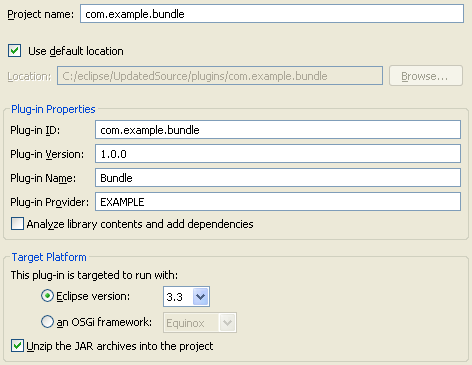
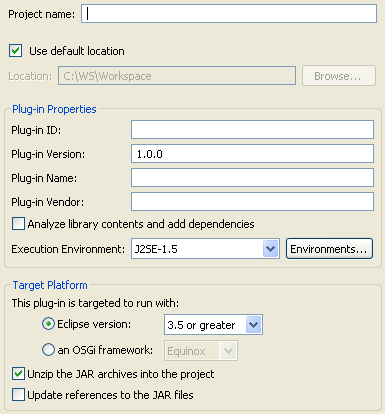
Bug 353358 - Replace screenshots and text for changing Provider to Vendor

Changed region(s): [[0.0, 0.0904, 0.9974, 0.6329], [0.0, 0.663, 0.6857, 0.9945], [0.0, 0.0, 0.9974, 0.0603]]

diff --git a/bundles/org.eclipse.pde.doc.user/guide/tools/project_wizards/plugin_content.htm b/bundles/org.eclipse.pde.doc.user/guide/tools/project_wizards/plugin_content.htm
@@ -2,7 +2,7 @@
 "http://www.w3.org/TR/html4/loose.dtd">
 <html lang="en">
 <head>
-<meta name="copyright" content="Copyright (c) IBM Corporation and others 2006, 2009. This page is made available under license. For full details see the LEGAL in the documentation book that contains this page." >
+<meta name="copyright" content="Copyright (c) IBM Corporation and others 2006, 2012. This page is made available under license. For full details see the LEGAL in the documentation book that contains this page." >
 <meta http-equiv="Content-Type" content="text/html; charset=iso-8859-1">
 <script language="JavaScript" type="text/javascript" src="PLUGINS_ROOT/org.eclipse.help/livehelp.js"></script>
 <title>Plug-in Content</title>
@@ -15,10 +15,10 @@
 <p><img src="../../images/new_wizards/plugin_content.PNG" alt="Plug-in Content" ></p>
 
 <h2>Plug-in Properties </h2>
-<p>A <strong>Plug-in ID</strong> is mandatory and must comply with the   <a href="../../../../org.eclipse.platform.doc.isv/reference/misc/plugin_manifest.html">plugin.dtd</a>. It is recommended - but not mandatory - for the plug-in ID to match the plug-in project name.</p>
-<p>A <strong>Plug-in Version</strong> is mandatory and must be of the form <em>major.minor.micro.qualifier</em> (e.g. 1.3.0).</p>
-<p>A <strong>Plug-in Name</strong> is the translatable presentation name of the plug-in. This field is required. </p>
-<p>A <strong>Plug-in Provider</strong> is the translatable name of the plug-in provider. This field is optional. </p>
+<p>A <strong>ID</strong> is mandatory and must comply with the   <a href="../../../../org.eclipse.platform.doc.isv/reference/misc/plugin_manifest.html">plugin.dtd</a>. It is recommended - but not mandatory - for the plug-in ID to match the plug-in project name.</p>
+<p>A <strong>Version</strong> is mandatory and must be of the form <em>major.minor.micro.qualifier</em> (e.g. 1.3.0).</p>
+<p>A <strong>Name</strong> is the translatable presentation name of the plug-in. This field is required. </p>
+<p>A <strong>Vendor</strong> is the translatable name of the plug-in vendor. This field is optional. </p>
 <p><strong>Execution Environment</strong> refers to the required <a href="http://wiki.eclipse.org/EE">execution environment</a> (symbolic representation of a JRE) of your plug-in. This field is optional but recommended to be set.</p>
 
 <h2>Plug-in Options </h2>

diff --git a/bundles/org.eclipse.pde.doc.user/guide/tools/project_wizards/fragment_content.htm b/bundles/org.eclipse.pde.doc.user/guide/tools/project_wizards/fragment_content.htm
@@ -2,7 +2,7 @@
 "http://www.w3.org/TR/html4/loose.dtd">
 <html lang="en">
 <head>
-<meta name="copyright" content="Copyright (c) IBM Corporation and others 2006, 2009. This page is made available under license. For full details see the LEGAL in the documentation book that contains this page." >
+<meta name="copyright" content="Copyright (c) IBM Corporation and others 2006, 2012. This page is made available under license. For full details see the LEGAL in the documentation book that contains this page." >
 <meta http-equiv="Content-Type" content="text/html; charset=iso-8859-1">
 <script language="JavaScript" type="text/javascript" src="PLUGINS_ROOT/org.eclipse.help/livehelp.js"></script>
 <title>Fragment Content</title>
@@ -15,10 +15,10 @@
 <p><img src="../../images/new_wizards/fragment2.png" alt="Fragment Content" ></p>
 
 <h2>Plug-in Properties </h2>
-<p>A <strong>Fragment ID</strong> is mandatory and must comply with the   <a href="../../../../org.eclipse.platform.doc.isv/reference/misc/plugin_manifest.html">plugin.dtd</a>. It is recommended - but not mandatory - for the fragment ID to match the project name.</p>
-<p>A <strong>Fragment Version</strong> is mandatory and must be of the form <em>major.minor.micro.qualifier</em> (e.g. 1.3.0).</p>
-<p>A <strong>Fragment Name</strong> is the translatable presentation name of the fragment. This field is required. </p>
-<p>A <strong>Fragment Provider</strong> is the translatable name of the fragment provider. This field is optional. </p>
+<p>A <strong>ID</strong> is mandatory and must comply with the   <a href="../../../../org.eclipse.platform.doc.isv/reference/misc/plugin_manifest.html">plugin.dtd</a>. It is recommended - but not mandatory - for the fragment ID to match the project name.</p>
+<p>A <strong>Version</strong> is mandatory and must be of the form <em>major.minor.micro.qualifier</em> (e.g. 1.3.0).</p>
+<p>A <strong>Name</strong> is the translatable presentation name of the fragment. This field is required. </p>
+<p>A <strong>Vendor</strong> is the translatable name of the fragment vendor. This field is optional. </p>
 <p><strong>Execution Environment</strong> refers to the required <a href="http://wiki.eclipse.org/EE">execution environment</a> (symbolic representation of a JRE) of your plug-in. This field is optional but recommended to be set.</p>
 
 <h2>Host Plug-in</h2>

diff --git a/bundles/org.eclipse.pde.doc.user/guide/tools/project_wizards/new_feature_patch.htm b/bundles/org.eclipse.pde.doc.user/guide/tools/project_wizards/new_feature_patch.htm
@@ -2,7 +2,7 @@
 "http://www.w3.org/TR/html4/loose.dtd">
 <html lang="en">
 <head>
-<meta name="copyright" content="Copyright (c) IBM Corporation and others 2006, 2009. This page is made available under license. For full details see the LEGAL in the documentation book that contains this page." >
+<meta name="copyright" content="Copyright (c) IBM Corporation and others 2006, 2012. This page is made available under license. For full details see the LEGAL in the documentation book that contains this page." >
 <meta http-equiv="Content-Type" content="text/html; charset=iso-8859-1">
 <script language="JavaScript" type="text/javascript" src="PLUGINS_ROOT/org.eclipse.help/livehelp.js"></script>
 <title>Feature Patch</title>
@@ -22,8 +22,8 @@
 
 <h3>Feature Patch Properties </h3>
 <p>A feature <strong>Patch ID</strong> is mandatory and must comply with the <a href="../../../../org.eclipse.platform.doc.isv/reference/misc/plugin_manifest.html">plugin.dtd</a>.</p>
-<p>A feature <strong>Patch Name</strong> is the translatable presentation name of the plug-in. This field is required. </p>
-<p>A feature <strong>Patch Provider</strong> is the translatable name of the feature provider. This field is optional. </p>
+<p>A feature <strong>Patch Name</strong> is the translatable presentation name of the feature patch. This field is required. </p>
+<p>A feature <strong>Patch Vendor</strong> is the translatable name of the feature patch. This field is optional. </p>
 <p>An <strong>Install Handler Library</strong> may be optionally associated with a feature patch if the patch needs to do specific or additional setup upon installation. Specifying an install handler library in the wizard results in the generation of a Java project; otherwise, the feature project is a simple project by default.</p>
 
 <h3>Properties of Patched Feature</h3>

diff --git a/bundles/org.eclipse.pde.doc.user/guide/tools/editors/feature_editor/overview.htm b/bundles/org.eclipse.pde.doc.user/guide/tools/editors/feature_editor/overview.htm
@@ -2,7 +2,7 @@
 "http://www.w3.org/TR/html4/loose.dtd">
 <html lang="en">
 <head>
-<meta name="copyright" content="Copyright (c) IBM Corporation and others 2006, 2009. This page is made available under license. For full details see the LEGAL in the documentation book that contains this page." >
+<meta name="copyright" content="Copyright (c) IBM Corporation and others 2006, 2012. This page is made available under license. For full details see the LEGAL in the documentation book that contains this page." >
 <meta http-equiv="Content-Type" content="text/html; charset=iso-8859-1">
 <title>Feature Overview</title>
 <script language="JavaScript" type="text/javascript" src="PLUGINS_ROOT/org.eclipse.help/livehelp.js"></script>
@@ -22,7 +22,7 @@
 <p>An<strong> ID</strong> is mandatory and must comply with the <a href="../../../../../org.eclipse.platform.doc.isv/reference/misc/plugin_manifest.html">specifications</a>.</p>
 <p>A <strong>Version</strong> is mandatory and must be of the form <em>major.minor.</em><em>micro.qualifier</em> (e.g. 1.3.0). </p>
 <p>A <strong>Name</strong> is the translatable presentation name of the feature. This field is required. </p>
-<p>A <strong>Provider</strong> is the translatable name of the feature provider. This field is optional. </p>
+<p>A <strong>Vendor</strong> is the translatable name of the feature vendor. This field is optional. </p>
 <p>A <strong>Branding   Plug-in</strong> stores branding information for primary features. If not explicitly set, Eclipse will assume that the branding plug-in   has the same identifier as the feature.</p>
 <p>The <strong>Update Site URL</strong> denotes a URL that is used by <em>Update Manager</em> when searching for feature updates.</p>
 <p>The <strong>Update Site Name</strong>  is the human-readable label of the referenced update site. </p>

diff --git a/bundles/org.eclipse.pde.doc.user/guide/tools/project_wizards/new_feature_project.htm b/bundles/org.eclipse.pde.doc.user/guide/tools/project_wizards/new_feature_project.htm
@@ -2,7 +2,7 @@
 "http://www.w3.org/TR/html4/loose.dtd">
 <html lang="en">
 <head>
-<meta name="copyright" content="Copyright (c) IBM Corporation and others 2006, 2009. This page is made available under license. For full details see the LEGAL in the documentation book that contains this page." >
+<meta name="copyright" content="Copyright (c) IBM Corporation and others 2006, 2012. This page is made available under license. For full details see the LEGAL in the documentation book that contains this page." >
 <meta http-equiv="Content-Type" content="text/html; charset=iso-8859-1">
 <script language="JavaScript" type="text/javascript" src="PLUGINS_ROOT/org.eclipse.help/livehelp.js"></script>
 <title>Feature Project</title>
@@ -28,7 +28,7 @@
 <p>A <strong>Feature ID</strong> is mandatory and must comply with the <a href="../../../../org.eclipse.platform.doc.isv/reference/misc/plugin_manifest.html">plugin.dtd</a>.</p>
 <p>A <strong>Feature Version</strong> is mandatory and must be of the form <em>major.minor.</em><em>micro.qualifier</em> (e.g. 1.3.0). </p>
 <p>A <strong>Feature Name</strong> is the translatable presentation name of the feature. This field is required. </p>
-<p>A <strong>Feature Provider</strong> is the translatable name of the feature provider. This field is optional. </p>
+<p>A <strong>Feature Vendor</strong> is the translatable name of the feature vendor. This field is optional. </p>
 <p>An <strong>Install Handler Library</strong> may be optionally associated with a feature if the feature needs to do specific or additional setup upon installation. Specifying an install handler library in the wizard results in the generation of a Java project; otherwise, the feature project is a simple project by default.</p>
 
 <h3>Plug-in Selection</h3>

diff --git a/bundles/org.eclipse.pde.doc.user/guide/tools/project_wizards/plugin_from_archives.htm b/bundles/org.eclipse.pde.doc.user/guide/tools/project_wizards/plugin_from_archives.htm
@@ -2,7 +2,7 @@
 "http://www.w3.org/TR/html4/loose.dtd">
 <html lang="en">
 <head>
-<meta name="copyright" content="Copyright (c) IBM Corporation and others 2006, 2009. This page is made available under license. For full details see the LEGAL in the documentation book that contains this page." >
+<meta name="copyright" content="Copyright (c) IBM Corporation and others 2006, 2012. This page is made available under license. For full details see the LEGAL in the documentation book that contains this page." >
 <meta http-equiv="Content-Type" content="text/html; charset=iso-8859-1">
 <script language="JavaScript" type="text/javascript" src="PLUGINS_ROOT/org.eclipse.help/livehelp.js"></script>
 <title>Plug-in From JAR Archives</title>
@@ -34,7 +34,7 @@
 <p>A <strong>Plug-in ID</strong> is mandatory and must comply with the <a href="../../../../org.eclipse.platform.doc.isv/reference/misc/plugin_manifest.html">plugin.dtd</a>. It is recommended - but not mandatory - for the plug-in ID to match the project name.</p>
 <p>A <strong>Plug-in Version</strong> is mandatory and must be of the form <em>major.minor.service</em> (e.g. 1.3.0).</p>
 <p>A <strong>Plug-in Name</strong> is the translatable presentation name of the plug-in. This field is required. </p>
-<p>A <strong>Plug-in Provider</strong> is the translatable name of the plug-in provider. This field is optional. </p>
+<p>A <strong>Plug-in Vendor</strong> is the translatable name of the plug-in vendor. This field is optional. </p>
 <p>You can optionally use PDE to <strong>Analyze library contents and add dependencies</strong>. 
  PDE analyzes the contents of the libraries specified on the
  <strong>Jar Selection</strong> page, looking for dependencies that may be

diff --git a/bundles/org.eclipse.pde.doc.user/guide/tools/editors/feature_editor/information.htm b/bundles/org.eclipse.pde.doc.user/guide/tools/editors/feature_editor/information.htm
@@ -2,7 +2,7 @@
 "http://www.w3.org/TR/html4/loose.dtd">
 <html lang="en">
 <head>
-<meta name="copyright" content="Copyright (c) IBM Corporation and others 2006, 2009. This page is made available under license. For full details see the LEGAL in the documentation book that contains this page." >
+<meta name="copyright" content="Copyright (c) IBM Corporation and others 2006, 2012. This page is made available under license. For full details see the LEGAL in the documentation book that contains this page." >
 <meta http-equiv="Content-Type" content="text/html; charset=iso-8859-1">
 <title>Feature Information</title>
 <script language="JavaScript" type="text/javascript" src="PLUGINS_ROOT/org.eclipse.help/livehelp.js"></script>
@@ -33,7 +33,7 @@
 <h2>Sites to Visit</h2>
 <p><strong>Sites to Visit</strong> specify the name and URL of sites to search for new features. </p>
 <p><img src="../../../images/feature_editor/information_sites.png" alt="Sites To Visit"></p>
-<p>In general, a provider can use <strong>Sites to Visit</strong> to reference its own site(s), or partner site(s) that offer complementary features. </p>
+<p>In general, a vendor can use <strong>Sites to Visit</strong> to reference its own site(s), or partner site(s) that offer complementary features. </p>
 <p>Eclipse uses this data simply as a way to distribute new site URLs to the clients. Sites that belong to   root features (at the top of the hierarchy) typically appear as <strong>Sites to Visit</strong>   in <em>Update Manager</em>. </p>
 
 </body>

diff --git a/bundles/org.eclipse.pde.doc.user/guide/tools/editors/manifest_editor/overview.htm b/bundles/org.eclipse.pde.doc.user/guide/tools/editors/manifest_editor/overview.htm
@@ -22,7 +22,7 @@
 <p>An<strong> ID</strong> is mandatory and must comply with the <a href="../../../../../org.eclipse.platform.doc.isv/reference/misc/plugin_manifest.html">plugin.dtd</a>.</p>
 <p>A <strong>Version</strong> is mandatory and must be of the form <em>major.minor.micro.qualifier</em> (e.g. 1.3.0).</p>
 <p>A<strong> Name</strong> is the translatable presentation name of the plug-in. This field is required. </p>
-<p>A<strong> Provider</strong> is the translatable name of the plug-in provider. This field is optional. </p>
+<p>A<strong> Vendor</strong> is the translatable name of the plug-in vendor. This field is optional. </p>
 <p>A <strong>Platform filter</strong> is a valid LDAP string that must evaluate to true in a running system for the the plug-in to run. For example, the following filter indicates that the plug-in is designed to only run on platforms with a <em>win32</em> windowing system:  <strong>Eclipse-PlatformFilter: (ws=win32)</strong>.  If a   user attempts to run Eclipse on a platform that does not meet this requirement,   the plug-in will be silently ignored by the runtime. </p>
 <p>An <strong>Activator</strong> is a Java class that controls the plug-in's life cycle. It is only needed if you require work to be done on the startup or shutdown of your plug-in. </p>
 
